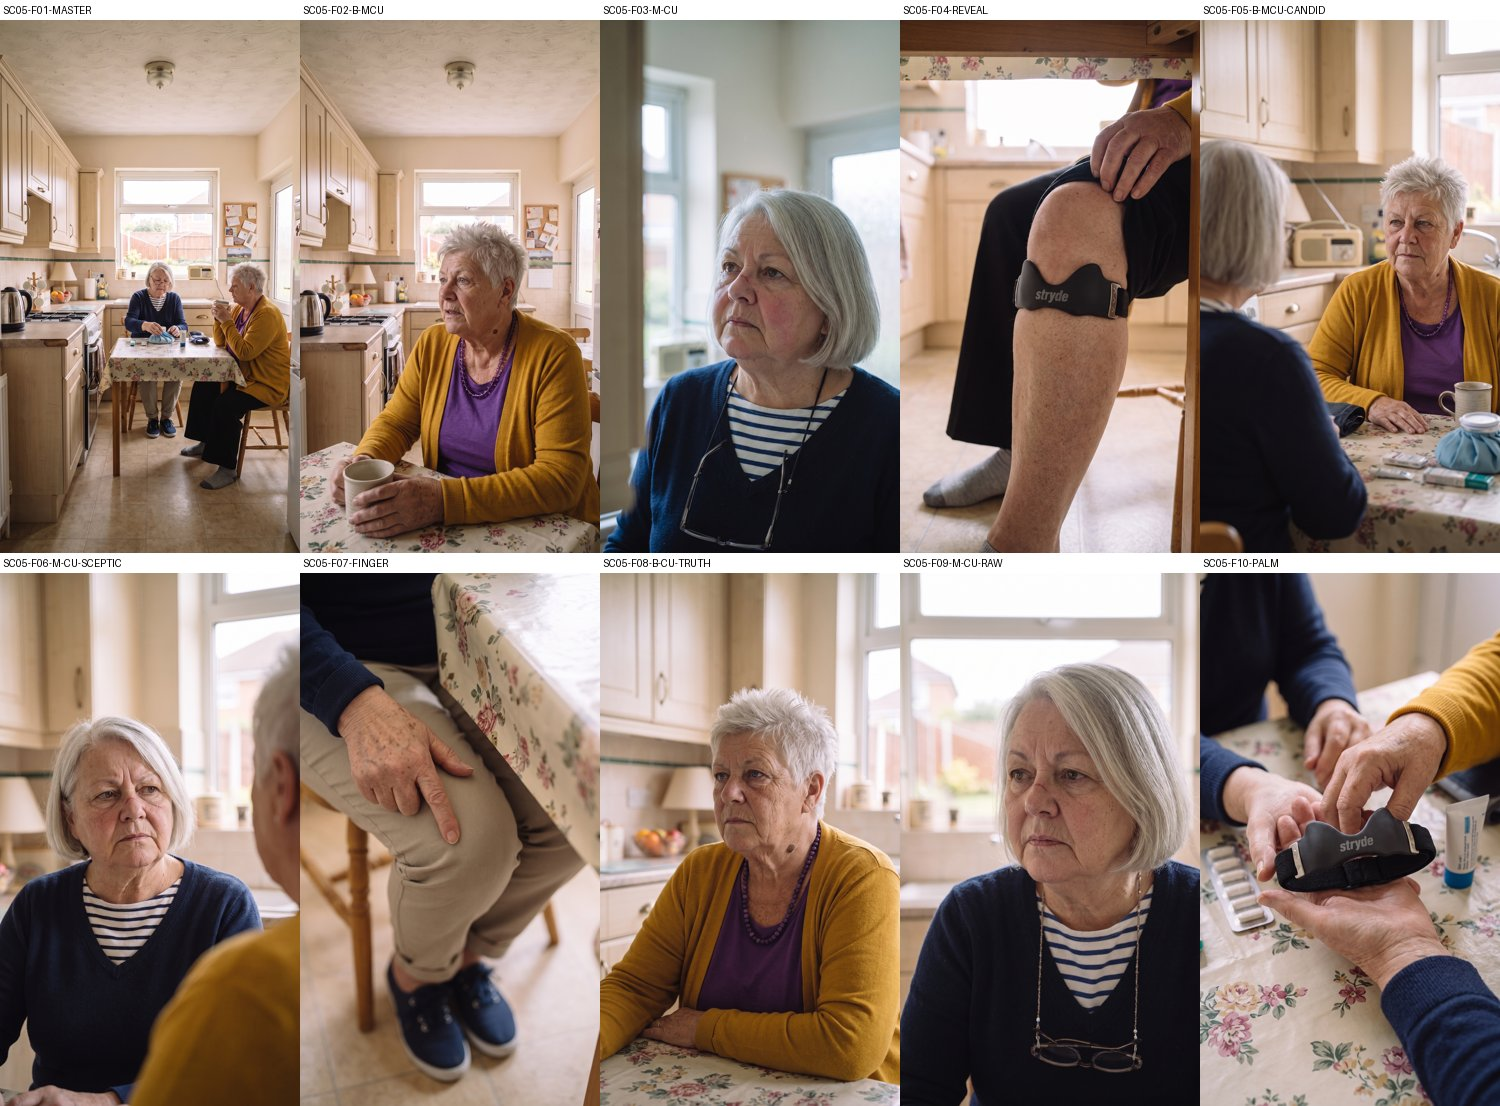
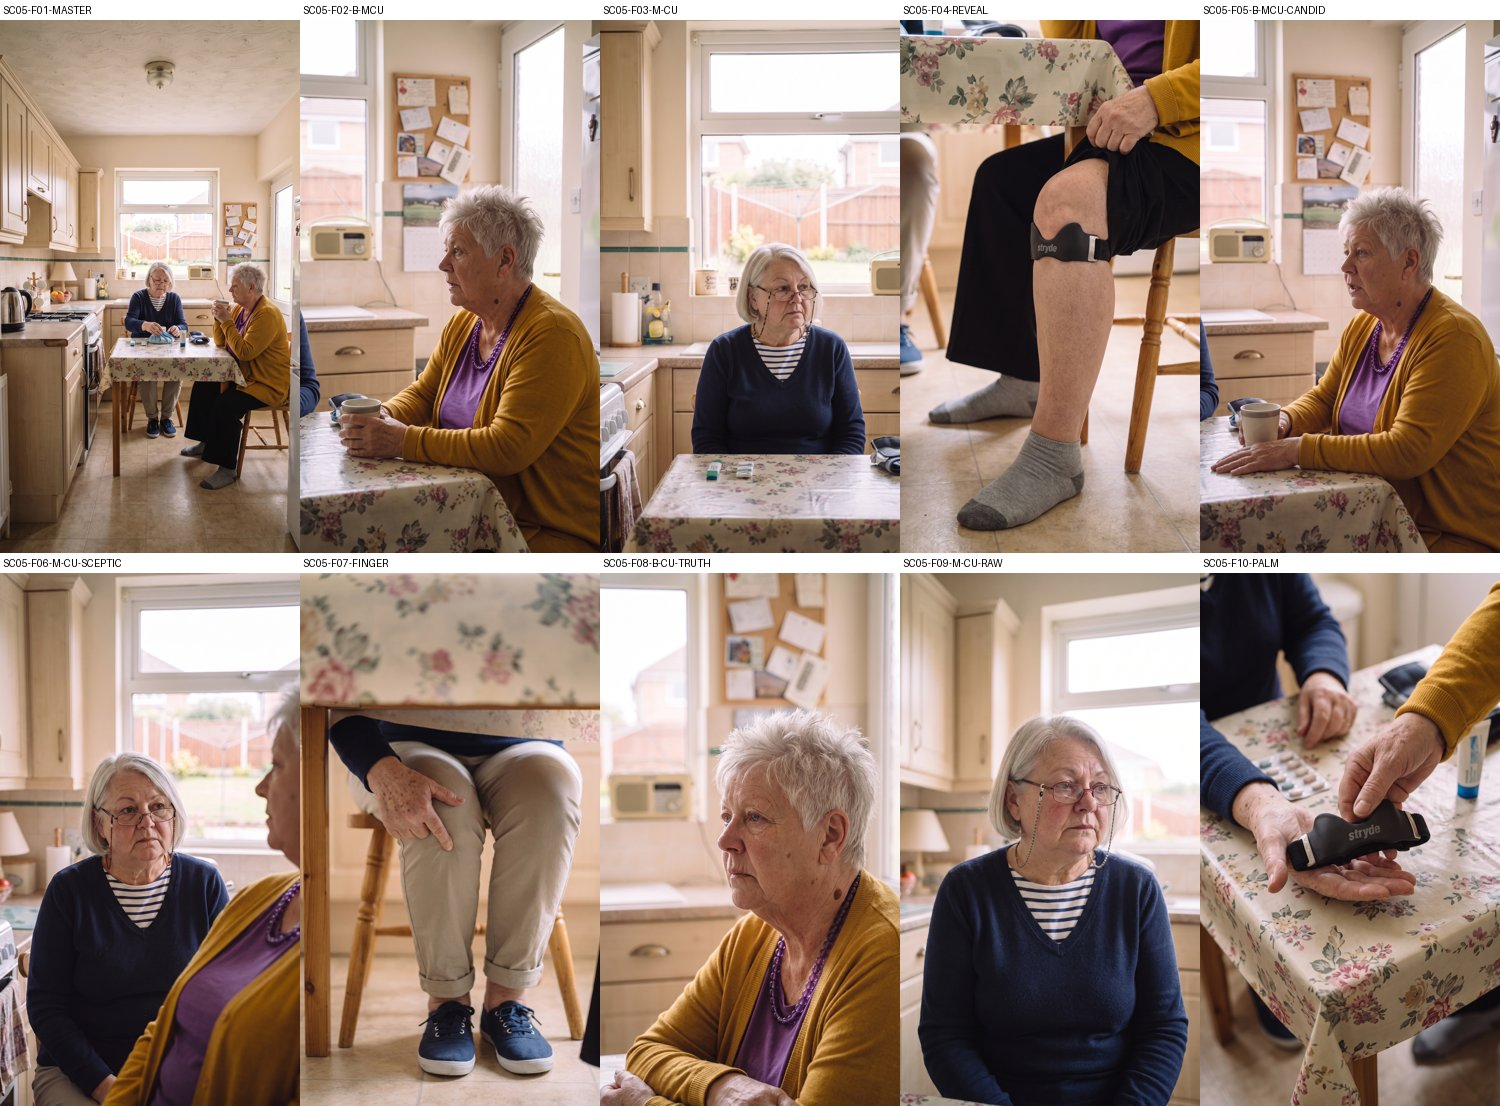
Six Weeks Ago: SC05 frames rebuilt as push-ins from the master
Coverage now shares the master's camera position, backgrounds and
eyelines; the reveal follows the seated worn reference. Previous round
kept under rejected/.

Claude-Session: https://claude.ai/code/session_01FZQFXKyZEZwwqkJna9VCSt

diff --git a/builds/six-weeks-ago/scenes-4-9/renders/SC05/ledger.md b/builds/six-weeks-ago/scenes-4-9/renders/SC05/ledger.md
@@ -24,3 +24,25 @@ Finding: CAM-FILM's "operated by a camera crew" put a camera rig in frame (v2), 
 
 Contact sheet (§24H step 4): PASS. Light from the window side in every frame, same clothes, props in state, eyelines Barbara screen-left / Margaret screen-right, floor vinyl in the kitchen.
 Cause of the eyeline failures: the scene data had the off-screen sides reversed for Barbara; corrected in scenes_b2.py.
+
+## Round 3 — push-ins from the master camera (user: frames must connect to the master; worn placement must match the worn references)
+
+Method: every coverage frame is the master's own camera position pushed in on a longer lens, with the master attached first. Barbara's singles are in near profile facing screen-left with the radio, cork board, back door and fridge behind her; Margaret faces camera with the window behind, glasses on her nose as in the master. The reveal uses the seated worn reference (54b04c4f) as the placement authority.
+
+| Beat | Job | Result |
+|---|---|---|
+| SC05-F02-B-MCU | 9c342a32-5557-4c31-9c19-1c7f3184cfb9 | PASS |
+| SC05-F03-M-CU | 3cdda2ba-6e14-4fac-9c5e-039116396fb8 | PASS |
+| SC05-F04-REVEAL | a854e75d-ef5c-41fc-9156-a7cbaeadbf55 | PASS — near (left) knee, notch under the kneecap, chrome slide at the outer edge, band round behind |
+| SC05-F05-B-MCU-CANDID (a) | 9cc7a6dd-8e32-4ee9-8e2e-3a362a08556d | FAIL — impossible over-the-shoulder geography |
+| SC05-F05-B-MCU-CANDID (b) | e1403708-1ffc-4ae7-8692-9b6cd1a29d91 | FAIL — face drift, window moved behind her |
+| SC05-F05-B-MCU-CANDID (c) | 412edf2f-5337-4ab6-8967-c8b49e4b29be | PASS — edit of F02, next moment |
+| SC05-F06-M-CU-SCEPTIC (a) | 27d6a0b0-1f43-41f4-80ea-e6e8a5c37afa | FAIL — white top under Barbara's cardigan |
+| SC05-F06-M-CU-SCEPTIC (b) | 26bf2be6-0090-4ca8-80b1-305100df6b2d | PASS — edit, purple t-shirt restored |
+| SC05-F07-FINGER | 6383150e-769f-4873-a144-bd20c72584de | PASS |
+| SC05-F08-B-CU-TRUTH | fce7baac-83ae-4b50-9281-d1852538dee1 | PASS |
+| SC05-F09-M-CU-RAW | ea2fc906-6189-4838-a5b7-eda6d4e9ffea | PASS |
+| SC05-F10-PALM | 360af344-863e-4fec-a771-71d95a9d2c42 | PASS |
+
+Round 2 frames moved to rejected/. Contact sheet round 3: PASS.
+Lesson: coverage built as push-ins or edits of an approved frame holds identity and geography; coverage described from scratch drifts.
